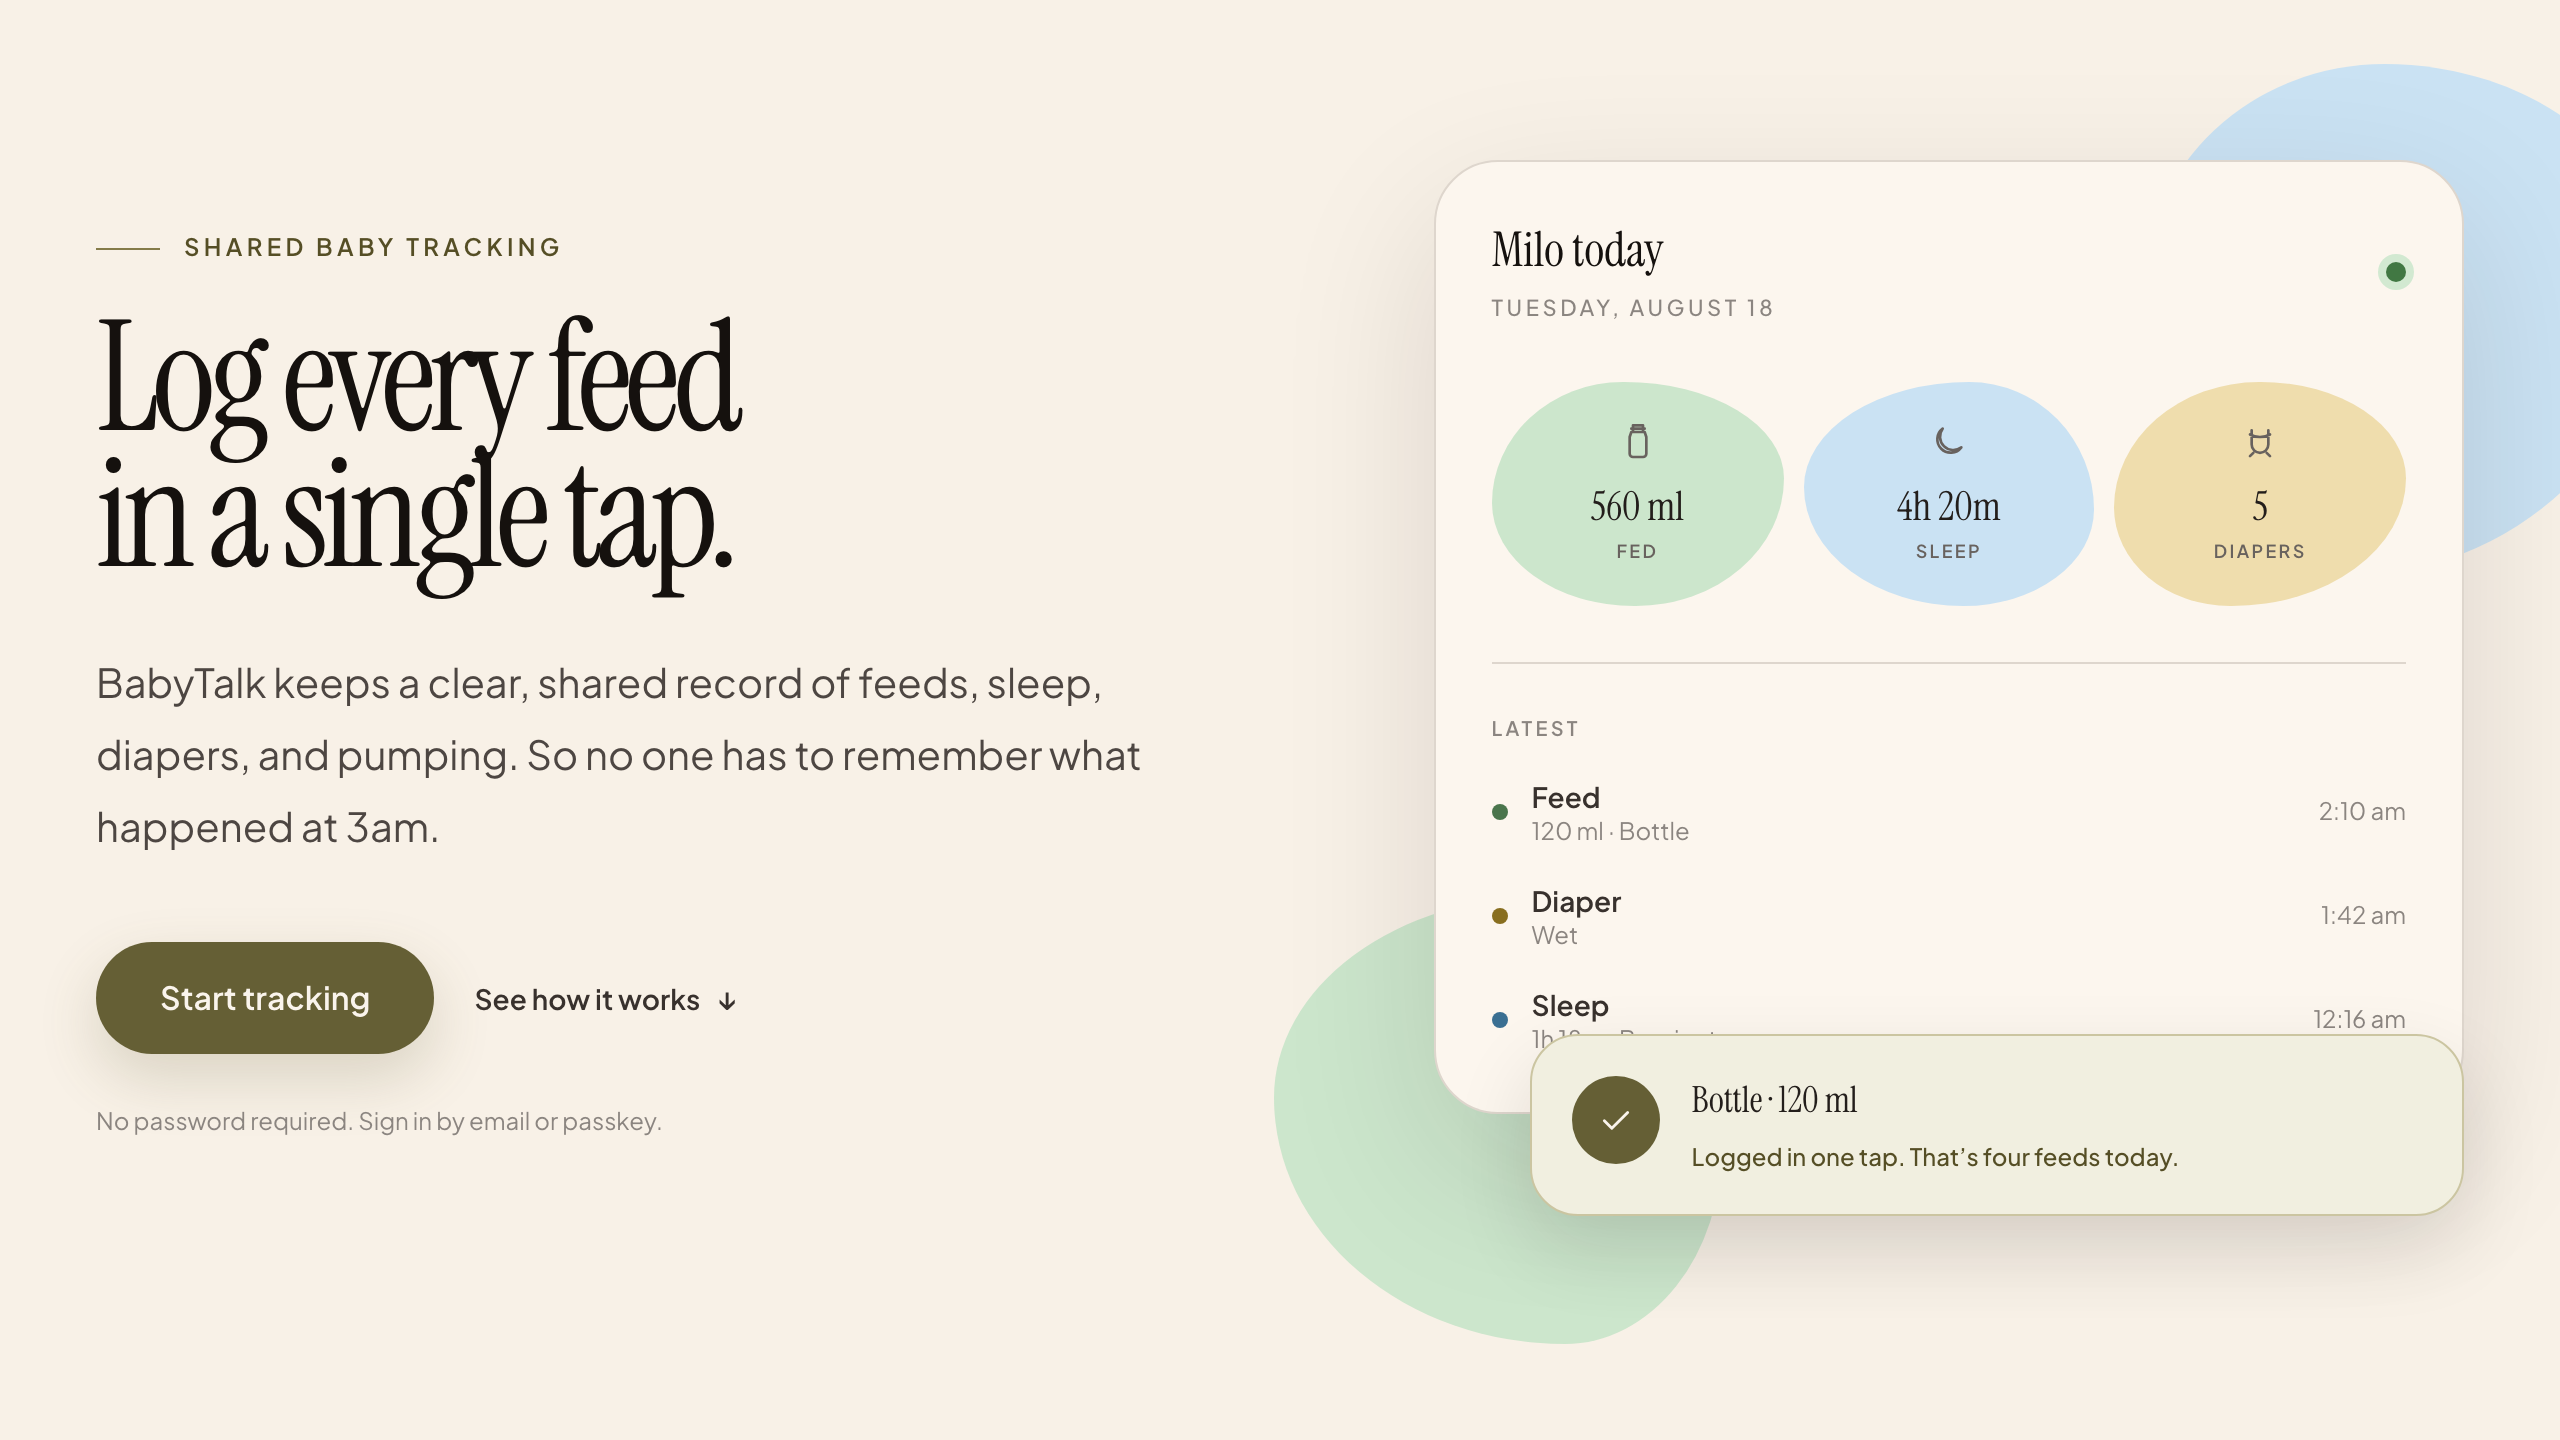
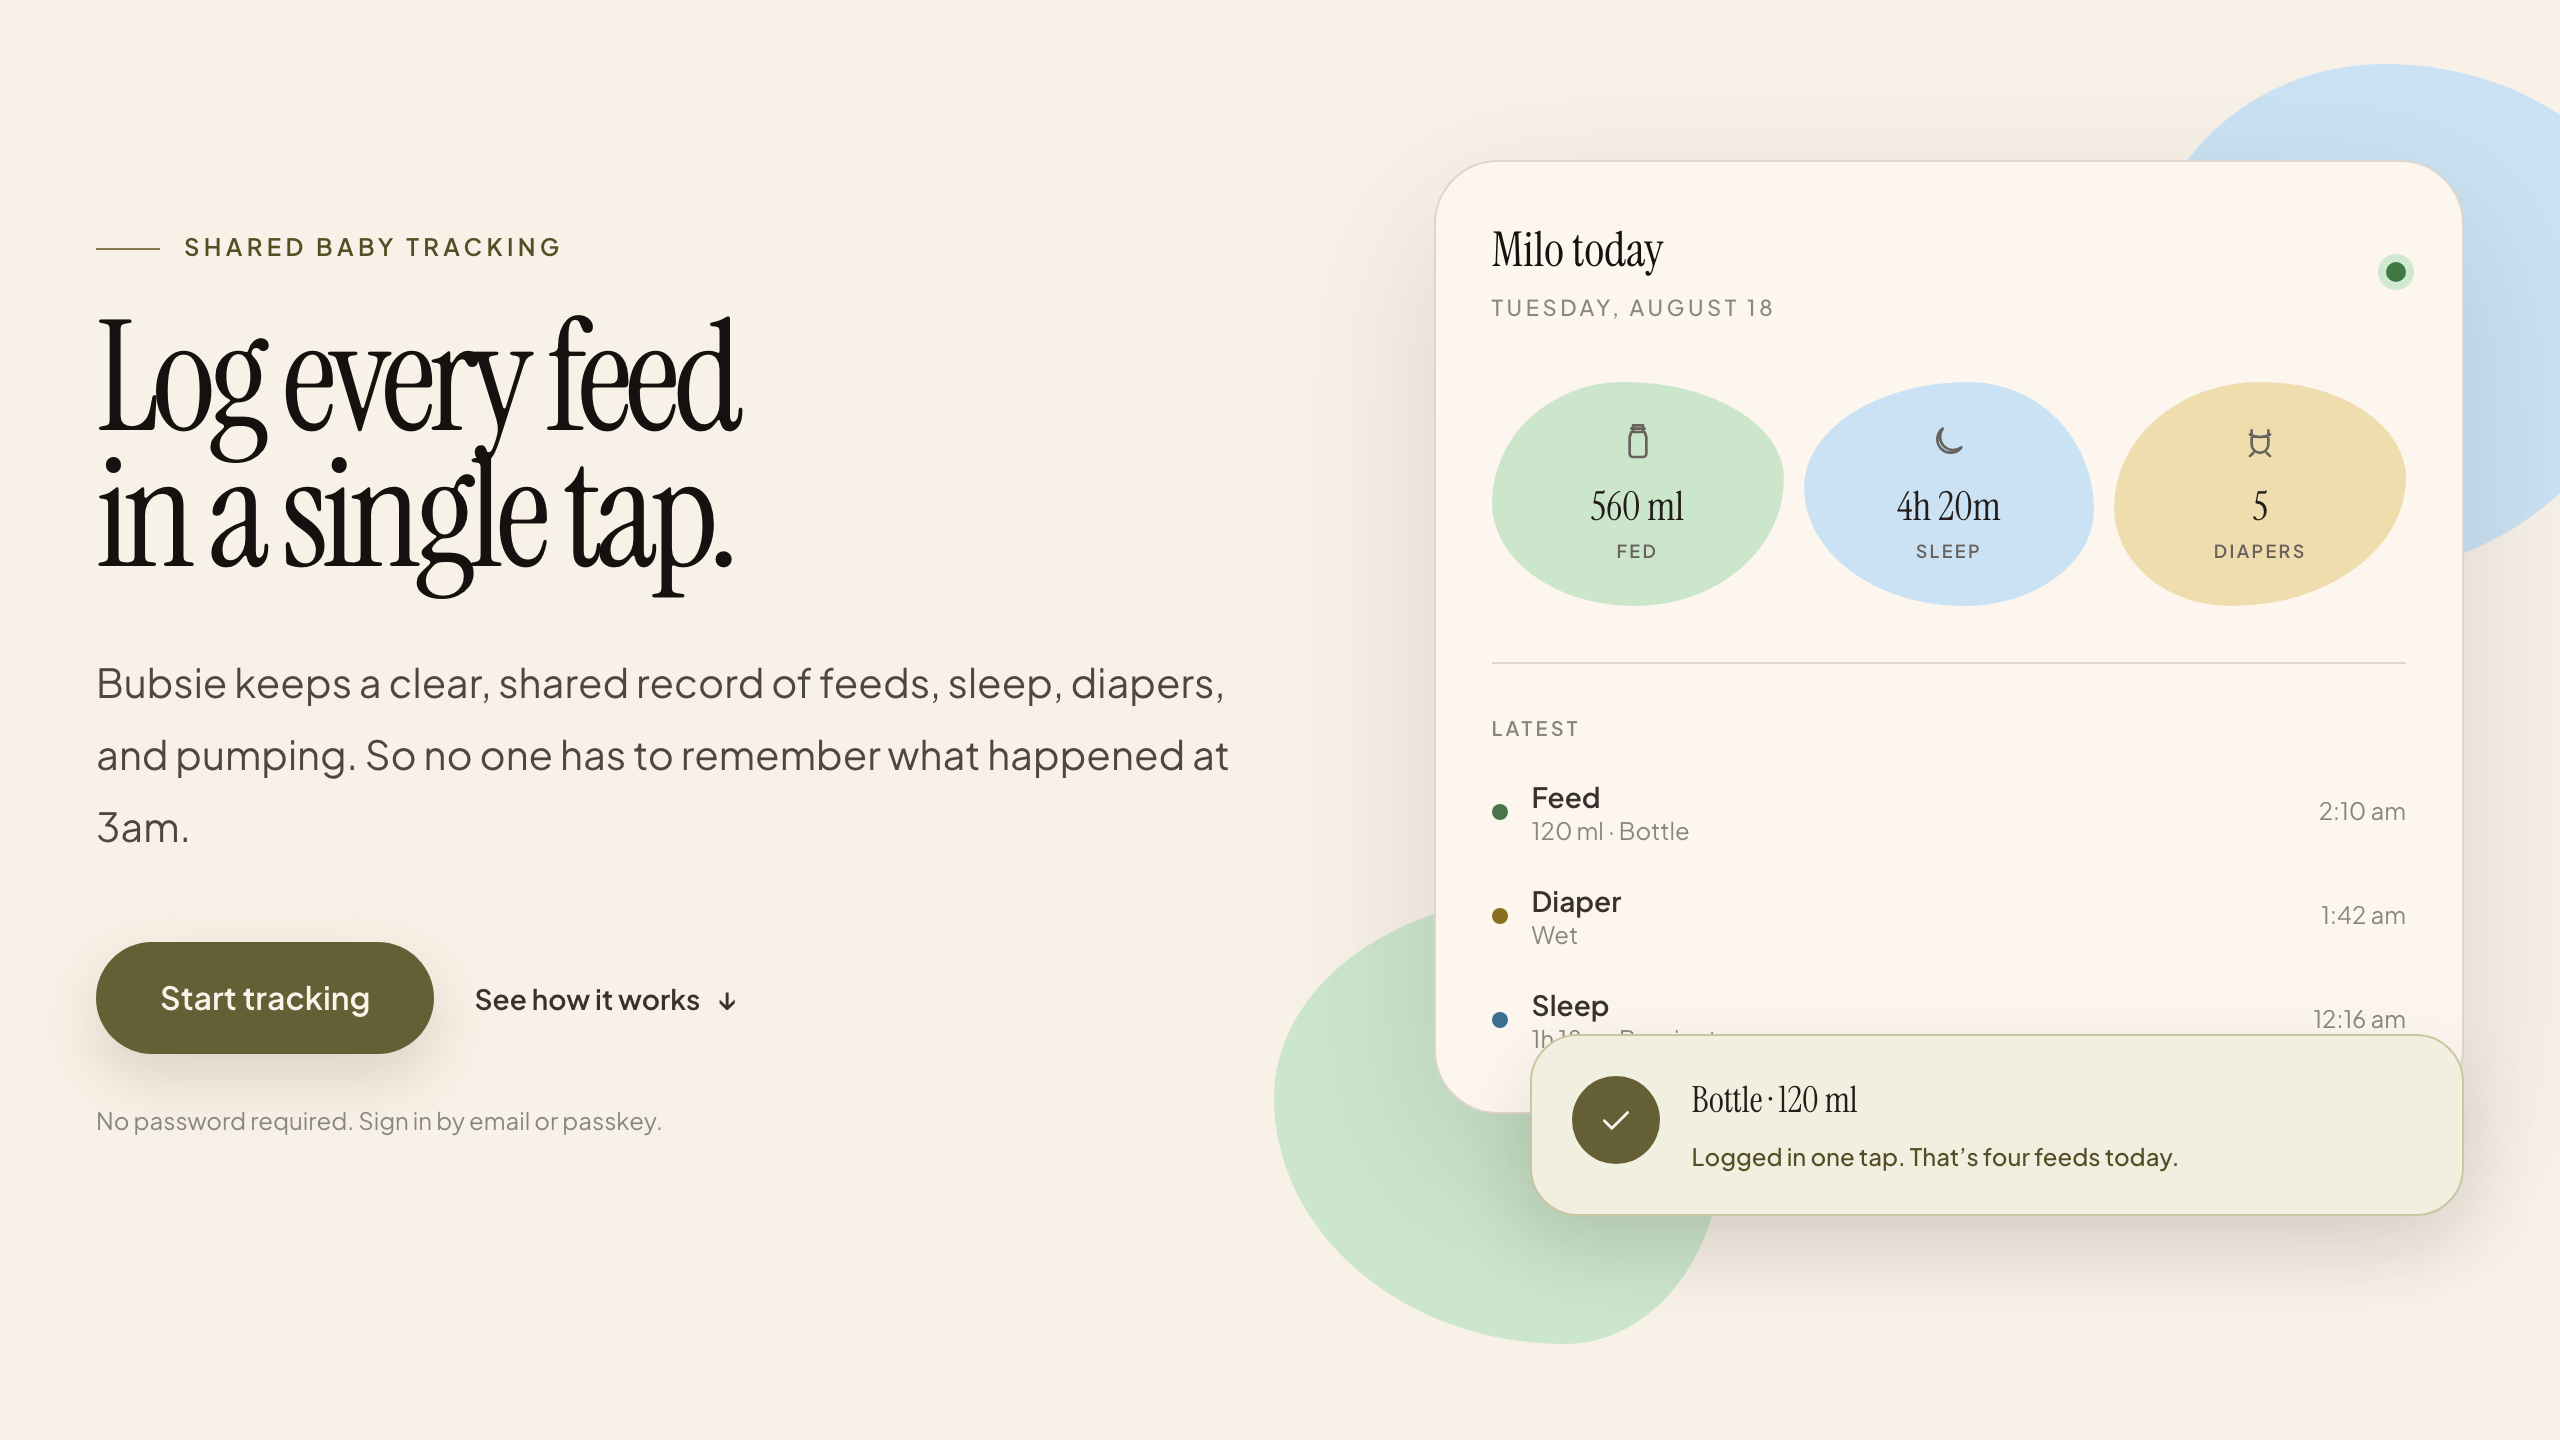
feat: rename app to Bubsie
User-facing name only: homepage, metadata, manifest, icons, emails,
passkey RP name, and the setup welcome copy (which still mentioned voice).
Package names, env prefixes, and localStorage keys are unchanged so
existing sessions and config keep working.

Changed region(s): [[0.0312, 0.4688, 0.4688, 0.5312], [0.0312, 0.5625, 0.1562, 0.5938]]

diff --git a/apps/web/src/app/page.tsx b/apps/web/src/app/page.tsx
@@ -111,7 +111,7 @@ export default function Home() {
       <header className="relative z-20 border-neutral-200/80 border-b">
         <div className="mx-auto flex min-h-20 max-w-7xl items-center justify-between px-5 sm:px-8 lg:px-12">
           <Link
-            aria-label="BabyTalk home"
+            aria-label="Bubsie home"
             className="flex min-h-11 items-center gap-3 rounded-lg focus-visible:outline-none focus-visible:ring-2 focus-visible:ring-primary-300"
             href="/"
           >
@@ -124,7 +124,7 @@ export default function Home() {
               width={36}
             />
             <span className="font-serif text-2xl tracking-tight text-neutral-900">
-              BabyTalk
+              Bubsie
             </span>
           </Link>
 
@@ -140,9 +140,9 @@ export default function Home() {
             </a>
             <a
               className="flex min-h-11 items-center text-sm font-medium text-neutral-500 transition-colors hover:text-neutral-800"
-              href="#why-babytalk"
+              href="#why-bubsie"
             >
-              Why BabyTalk
+              Why Bubsie
             </a>
           </nav>
 
@@ -165,7 +165,7 @@ export default function Home() {
             Log every feed in a single tap.
           </h1>
           <p className="mt-8 max-w-xl text-lg leading-8 text-neutral-600 sm:text-xl sm:leading-9">
-            BabyTalk keeps a clear, shared record of feeds, sleep, diapers, and
+            Bubsie keeps a clear, shared record of feeds, sleep, diapers, and
             pumping. So no one has to remember what happened at 3am.
           </p>
           <div className="mt-10 flex flex-col items-start gap-5 sm:flex-row sm:items-center">
@@ -194,7 +194,7 @@ export default function Home() {
         </div>
 
         <div
-          aria-label="Example of a BabyTalk daily log"
+          aria-label="Example of a Bubsie daily log"
           className="relative mx-auto w-full max-w-[34rem] lg:mx-0"
         >
           <div className="absolute -top-12 -right-24 h-64 w-64 rounded-[47%_53%_61%_39%/44%_42%_58%_56%] bg-sleep-100" />
@@ -355,12 +355,12 @@ export default function Home() {
 
       <section
         className="bg-surface-sunken px-5 py-24 sm:px-8 sm:py-32 lg:px-12"
-        id="why-babytalk"
+        id="why-bubsie"
       >
         <div className="mx-auto max-w-7xl">
           <div className="max-w-2xl">
             <p className="text-xs font-semibold tracking-[0.18em] text-primary-600 uppercase">
-              Why BabyTalk
+              Why Bubsie
             </p>
             <h2 className="mt-5 font-serif text-5xl leading-[0.98] tracking-[-0.03em] text-neutral-900 sm:text-6xl">
               Less admin. More knowing.
@@ -485,12 +485,12 @@ export default function Home() {
 
       <footer className="border-neutral-200 border-t">
         <div className="mx-auto flex max-w-7xl flex-col gap-4 px-5 py-8 text-xs text-neutral-400 sm:flex-row sm:items-center sm:justify-between sm:px-8 lg:px-12">
-          <p>BabyTalk. Built for tired parents.</p>
+          <p>Bubsie. Built for tired parents.</p>
           <Link
             className="flex min-h-11 items-center font-semibold text-neutral-500 transition-colors hover:text-neutral-800"
             href="/auth/login"
           >
-            Sign in to BabyTalk
+            Sign in to Bubsie
           </Link>
         </div>
       </footer>

diff --git a/apps/api/src/email/send.ts b/apps/api/src/email/send.ts
@@ -21,12 +21,12 @@ export const sendMagicLinkEmail = async (
   await transport.sendMail({
     from: config.smtpFrom,
     html: `
-      <h2>Sign in to BabyTalk</h2>
+      <h2>Sign in to Bubsie</h2>
       <p>Click the link below to sign in:</p>
-      <p><a href="${link}">Sign in to BabyTalk</a></p>
+      <p><a href="${link}">Sign in to Bubsie</a></p>
       <p>This link expires in 15 minutes.</p>
     `,
-    subject: "Sign in to BabyTalk",
+    subject: "Sign in to Bubsie",
     text: `Click this link to sign in: ${link}\n\nThis link expires in 15 minutes.`,
     to: email,
   });
@@ -42,13 +42,13 @@ export const sendPartnerInviteEmail = async (
   await transport.sendMail({
     from: config.smtpFrom,
     html: `
-      <h2>You've been invited to BabyTalk</h2>
-      <p>Your partner is using BabyTalk to track feeds, sleep, and diapers. Tap below to join their family:</p>
-      <p><a href="${link}">Join BabyTalk</a></p>
+      <h2>You've been invited to Bubsie</h2>
+      <p>Your partner is using Bubsie to track feeds, sleep, and diapers. Tap below to join their family:</p>
+      <p><a href="${link}">Join Bubsie</a></p>
       <p>This link expires in 24 hours.</p>
     `,
-    subject: "Join your partner on BabyTalk",
-    text: `Your partner invited you to BabyTalk! Tap this link to join: ${link}\n\nThis link expires in 24 hours.`,
+    subject: "Join your partner on Bubsie",
+    text: `Your partner invited you to Bubsie! Tap this link to join: ${link}\n\nThis link expires in 24 hours.`,
     to: email,
   });
 };

diff --git a/apps/web/src/components/profile-sheet.tsx b/apps/web/src/components/profile-sheet.tsx
@@ -96,15 +96,15 @@ const InstallAppSection = () => {
         ) : (
           <>
             <p className="text-sm text-neutral-600">
-              Add BabyTalk to your home screen for one-tap access — works
-              offline too.
+              Add Bubsie to your home screen for one-tap access — works offline
+              too.
             </p>
             <button
               className="mt-2 flex min-h-[44px] w-full items-center justify-center rounded-lg bg-primary-500 px-4 py-2.5 text-sm font-medium text-white transition-[background-color,transform] hover:bg-primary-600 active:scale-[0.97]"
               onClick={install}
               type="button"
             >
-              Install BabyTalk
+              Install Bubsie
             </button>
           </>
         )}
@@ -756,8 +756,8 @@ export const ProfileSheet = ({
     if (navigator.share) {
       try {
         await navigator.share({
-          text: "Join our family on BabyTalk",
-          title: "BabyTalk Invite",
+          text: "Join our family on Bubsie",
+          title: "Bubsie Invite",
           url: inviteUrl,
         });
         return;

diff --git a/apps/web/src/app/dashboard/setup/page.tsx b/apps/web/src/app/dashboard/setup/page.tsx
@@ -194,7 +194,7 @@ export default function SetupPage() {
             </Link>
             <a
               className="min-h-[44px] flex items-center justify-center text-sm font-medium text-primary-500 transition-colors hover:text-primary-600"
-              href="mailto:support@babytalk.app"
+              href="mailto:support@bubsie.app"
             >
               Get in touch
             </a>
@@ -215,8 +215,8 @@ export default function SetupPage() {
             We&apos;ve got this.
           </h1>
           <p className="mt-6 text-base leading-relaxed text-neutral-400">
-            BabyTalk tracks feeds, sleep, and diapers with just your voice. No
-            typing, no tapping through menus — just talk.
+            Bubsie keeps track of feeds, sleep, and diapers. One tap to log,
+            nothing to type, and everyone in the family stays caught up.
           </p>
 
           <div className="mt-12 flex flex-col gap-3">

diff --git a/apps/web/src/lib/tambo/provider.tsx b/apps/web/src/lib/tambo/provider.tsx
@@ -49,7 +49,7 @@ export const useTamboStatus = (): TamboStatusContextValue =>
 export const useTamboReady = (): boolean =>
   useContext(TamboStatusContext).status === "connected";
 
-const SYSTEM_PROMPT = `You are BabyTalk — a calm, warm, and concise baby tracking companion. You help tired parents log feeds, sleep, diapers, and notes. You feel like a co-parent who never sleeps, never forgets, and never judges.
+const SYSTEM_PROMPT = `You are Bubsie — a calm, warm, and concise baby tracking companion. You help tired parents log feeds, sleep, diapers, and notes. You feel like a co-parent who never sleeps, never forgets, and never judges.
 
 ## Personality
 - Warm but brief. You're the friend who just gets it.

diff --git a/apps/web/src/app/layout.tsx b/apps/web/src/app/layout.tsx
@@ -9,9 +9,9 @@ export const metadata: Metadata = {
   appleWebApp: {
     capable: true,
     statusBarStyle: "black-translucent",
-    title: "BabyTalk",
+    title: "Bubsie",
   },
-  applicationName: "BabyTalk",
+  applicationName: "Bubsie",
   description:
     "Track feeds, sleep, diapers, and pumping in one tap. One clear, shared baby log for the whole family.",
   icons: {
@@ -24,7 +24,7 @@ export const metadata: Metadata = {
     ],
   },
   manifest: "/manifest.json",
-  title: "BabyTalk",
+  title: "Bubsie",
 };
 
 export const viewport: Viewport = {

diff --git a/apps/web/src/lib/use-pump-thread.ts b/apps/web/src/lib/use-pump-thread.ts
@@ -13,7 +13,7 @@ import { gqlRequest } from "./tambo/graphql";
 const STALE_AFTER_MS = 60 * 60 * 1000;
 const MIN_REFRESH_INTERVAL_MS = 30_000;
 
-const PUMP_SYSTEM_MESSAGE = `PUMP COACH MODE: You are BabyTalk's pump & supply coach.
+const PUMP_SYSTEM_MESSAGE = `PUMP COACH MODE: You are Bubsie's pump & supply coach.
 
 Your ONLY job is to maintain the "pump hint" displayed on the pumping page. You do this by calling the updatePumpHint tool with a babyId, a one-sentence hint, and (optionally) a suggested side.
 

diff --git a/apps/web/src/lib/use-insight-thread.ts b/apps/web/src/lib/use-insight-thread.ts
@@ -12,7 +12,7 @@ const DEBOUNCE_MS = 5000;
 /** Don't refresh more than once per 30s */
 const MIN_REFRESH_INTERVAL = 30_000;
 
-const INSIGHT_SYSTEM_MESSAGE = `INSIGHT MODE: You are the BabyTalk insight engine.
+const INSIGHT_SYSTEM_MESSAGE = `INSIGHT MODE: You are the Bubsie insight engine.
 Your ONLY job is to produce a single-line contextual insight for display on the home screen.
 
 Rules:

diff --git a/apps/web/src/app/globals.css b/apps/web/src/app/globals.css
@@ -1,7 +1,7 @@
 @import "tailwindcss";
 
 /* ============================================================
-   BabyTalk Design Tokens
+   Bubsie Design Tokens
    Aesthetic: Soft & organic, minimal, smart, serene
    Palette: Warm neutrals + muted event accents
    ============================================================ */

diff --git a/apps/api/src/config.ts b/apps/api/src/config.ts
@@ -12,7 +12,7 @@ export default defineConfig({
     port: z.number().default(4000).describe("HTTP server port"),
     rpName: z
       .string()
-      .default("BabyTalk")
+      .default("Bubsie")
       .describe("Relying Party display name shown by passkey prompts"),
     smtpFrom: z
       .string()

diff --git a/apps/web/public/sw.js b/apps/web/public/sw.js
@@ -1,4 +1,4 @@
-/// Service Worker for BabyTalk PWA
+/// Service Worker for Bubsie PWA
 /// Handles: offline caching, background sync for mutations
 
 // Bumped to v2 to evict the v1 cache, which served stale HTML referencing

diff --git a/README.md b/README.md
@@ -1,10 +1,10 @@
-# BabyTalk
+# Bubsie
 
 **Log every feed in a single tap.**
 
-BabyTalk keeps a clear, shared record of feeds, sleep, diapers, and pumping. So no one has to remember what happened at 3am.
+Bubsie keeps a clear, shared record of feeds, sleep, diapers, and pumping. So no one has to remember what happened at 3am.
 
-![BabyTalk homepage with a sample daily log](docs/screenshots/home-hero.png)
+![Bubsie homepage with a sample daily log](docs/screenshots/home-hero.png)
 
 ## How it works
 
@@ -17,7 +17,7 @@ Tap once. It stays remembered.
 3. **Everyone stays caught up.** Feeds, sleep, diapers, and pumping stay in one
    timeline your household can check.
 
-## Why BabyTalk
+## Why Bubsie
 
 Less admin. More knowing.
 
@@ -98,7 +98,7 @@ No password required. Sign in by email magic link or passkey.
 
 ## Development
 
-BabyTalk is a pnpm monorepo: a GraphQL API (`apps/api`), a Next.js web app
+Bubsie is a pnpm monorepo: a GraphQL API (`apps/api`), a Next.js web app
 (`apps/web`), and a Drizzle/PostgreSQL schema (`packages/db`). See
 [AGENTS.md](AGENTS.md) for architecture and conventions.
 
